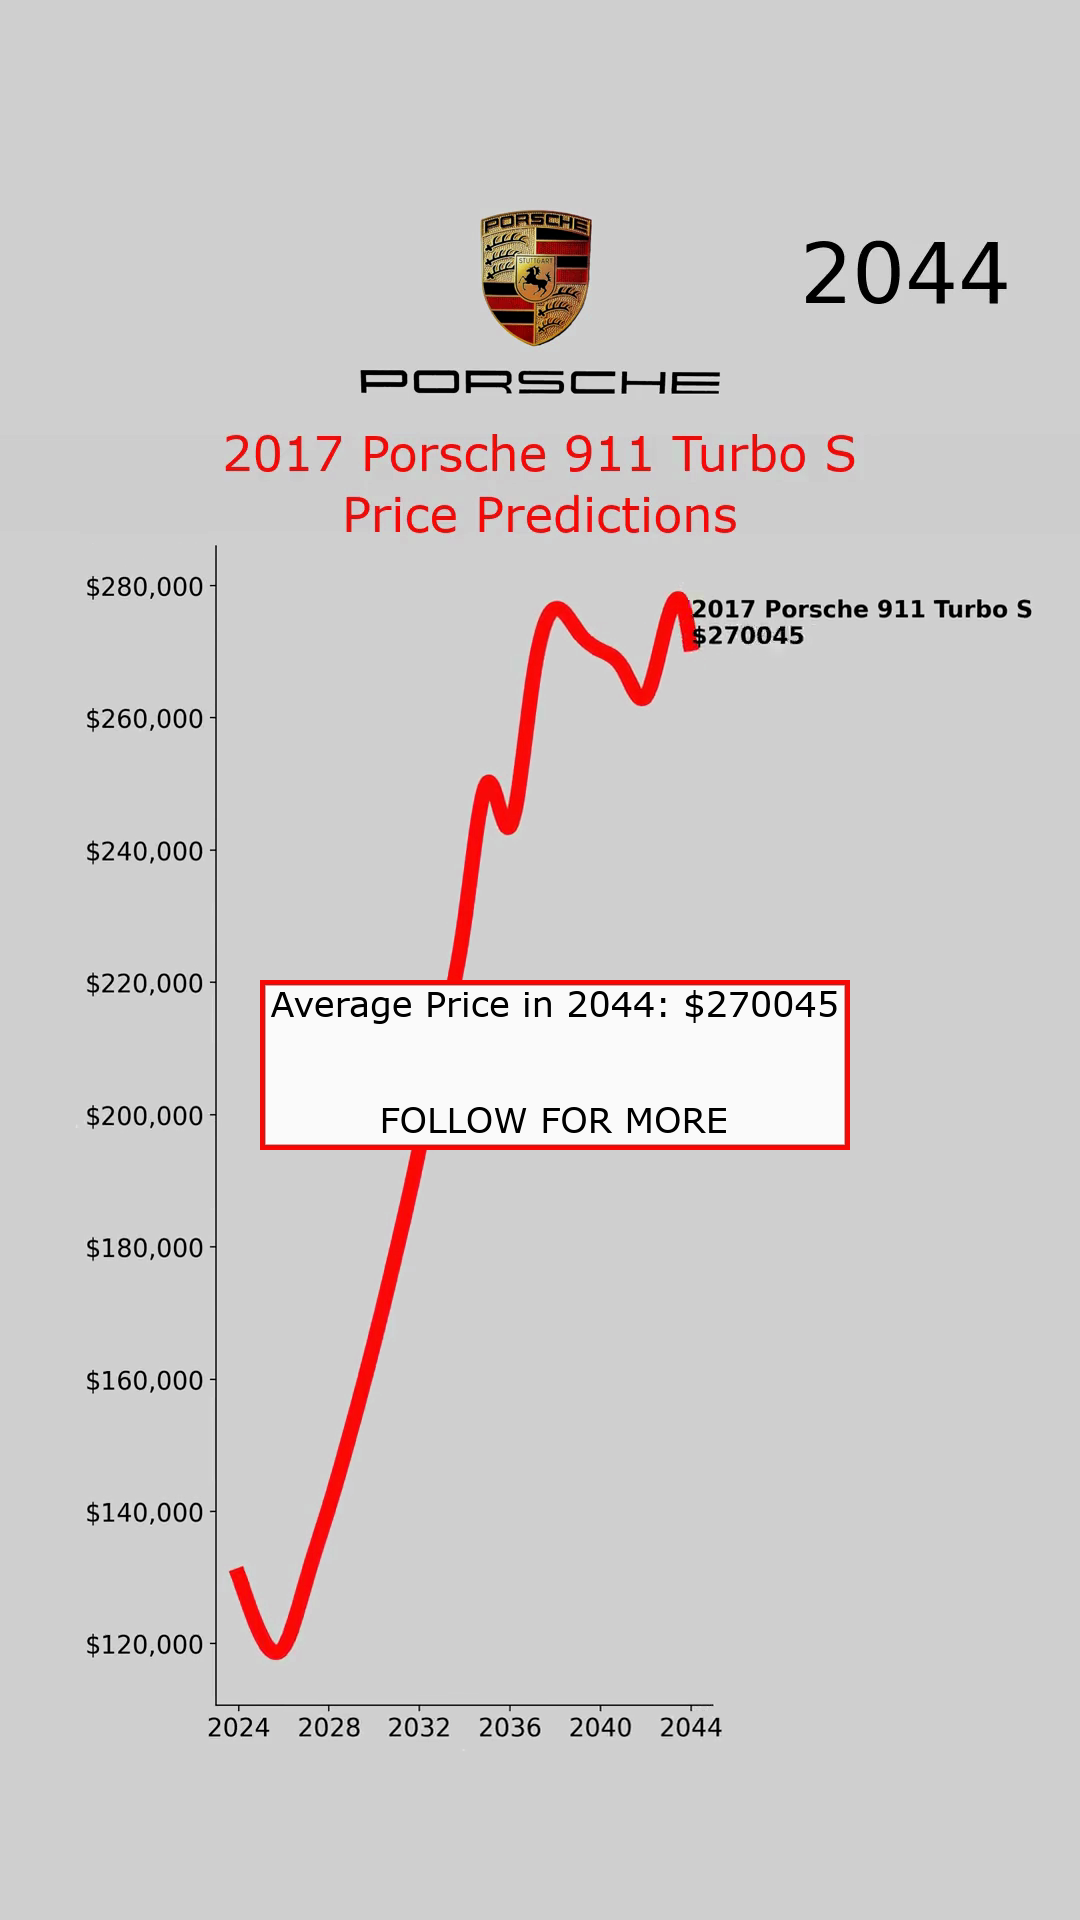
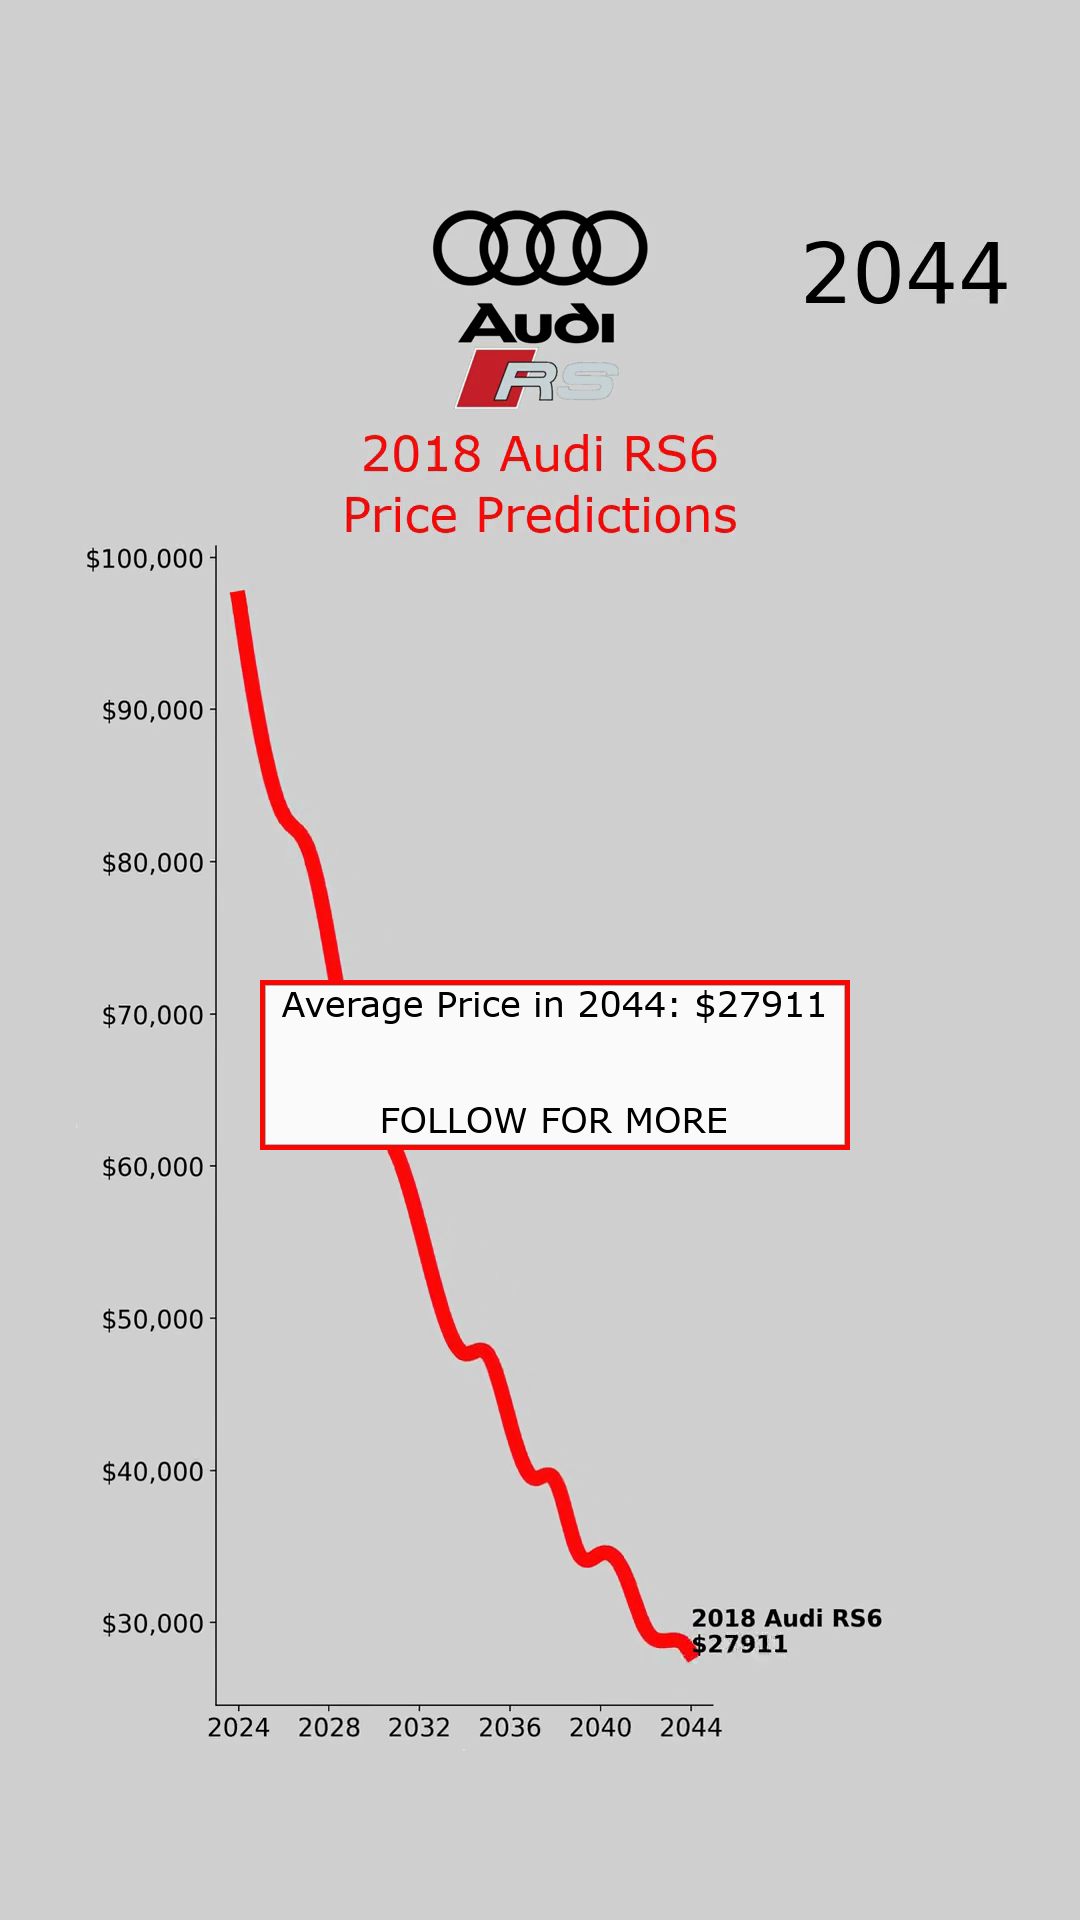
Slight Changes

diff --git a/interpolate.py b/interpolate.py
@@ -28,7 +28,7 @@ frames = 500
 
 car1ImageName = ''
 car2ImageName = ''
-car3ImageName = 'Porsche'
+car3ImageName = 'Audi RS'
 
 # Not used here but still used in multiple files
 car1 = '' # Place Holder
